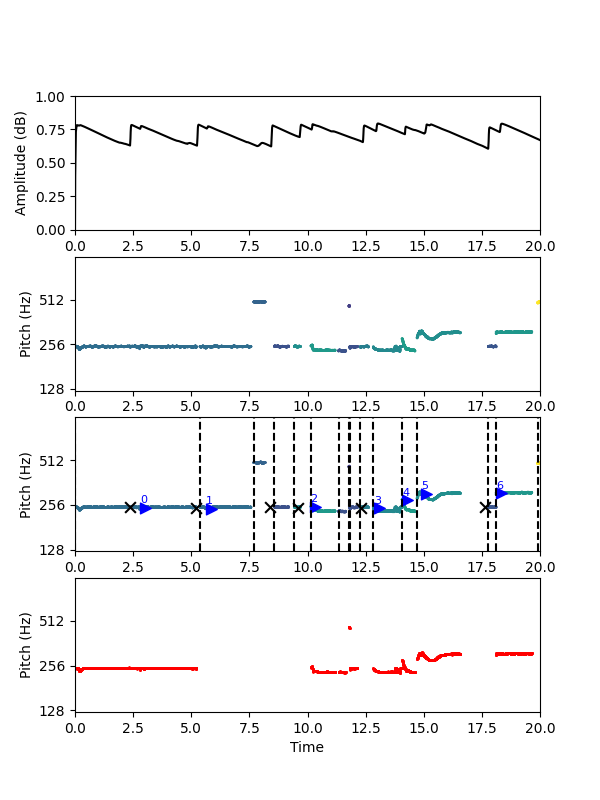
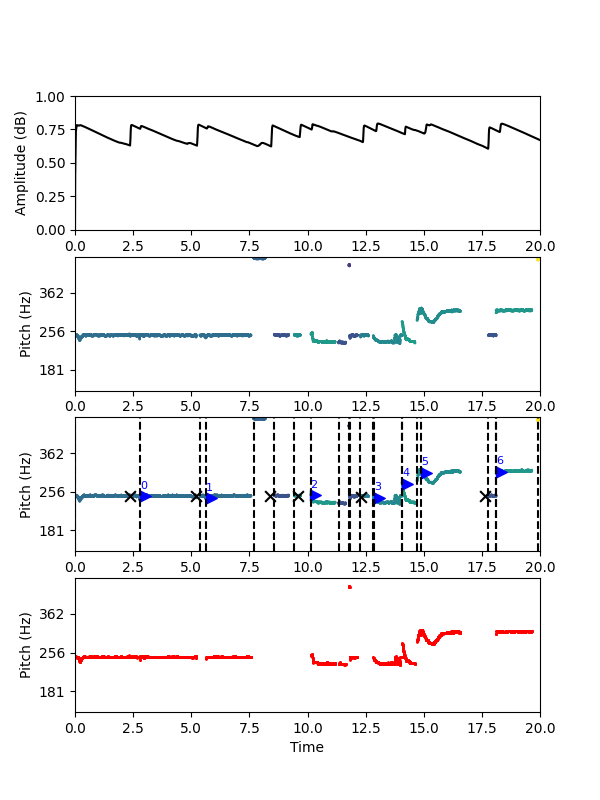
updating

diff --git a/python/auto_transcribe/melodic_contour.py b/python/auto_transcribe/melodic_contour.py
@@ -5,7 +5,10 @@ from matplotlib.markers import MarkerStyle
 import numpy as np
 from mir_eval.sonify import pitch_contour
 
-def get_idx_groups(log_pitch: np.ndarray, discontinuity_threshold: float = 0.2):
+min_freq = 150
+max_freq = 500
+
+def get_idx_groups(log_pitch: np.ndarray, pluck_idxs: list[int], discontinuity_threshold: float = 0.2):
     # segmentation of the pitch contour
     idx_groups = []
     current_group = []
@@ -27,7 +30,20 @@ def get_idx_groups(log_pitch: np.ndarray, discontinuity_threshold: float = 0.2):
     if len(current_group) > 0:
         idx_groups.append(current_group)
     
-    return idx_groups
+     # Further segment the groups based on pluck_idxs
+    final_idx_groups = []
+    for group in idx_groups:
+        new_group = []
+        for idx in group:
+            if idx in pluck_idxs:
+                if new_group:
+                    final_idx_groups.append(new_group)
+                    new_group = []
+            new_group.append(idx)
+        if new_group:
+            final_idx_groups.append(new_group)
+    
+    return final_idx_groups
 
 def find_nearest_non_nan(arr: np.ndarray, idx: int) -> float:
     # Look backwards
@@ -90,7 +106,7 @@ def make_just_contour_plot(ax_0, x_vals, log_pitch, log_fund, start, end, colors
     ax_0.scatter(x_vals, log_pitch, c=colors, s=1)
     ax_0.set_ylabel('Pitch (Hz)')
     # ax_0.set_title('Melodic Contour')
-    ax_0.set_ylim([log_fund - 1, log_fund + 2])
+    ax_0.set_ylim([np.log2(min_freq), np.log2(max_freq)])
     y_ticks = ax_0.get_yticks()
     labels = [str(int(2**y)) for y in y_ticks]
     ax_0.set_yticklabels(labels)
@@ -101,7 +117,7 @@ def make_annotated_contour_plot(ax, log_pitch, log_fund, start, end, colors,
     x_vals = np.linspace(start, end, len(log_pitch))
     ax.scatter(x_vals, log_pitch, c=colors, s=1)
     ax.set_ylabel('Pitch (Hz)')
-    ax.set_ylim([log_fund - 1, log_fund + 2])
+    ax.set_ylim([np.log2(min_freq), np.log2(max_freq)])
     y_ticks = ax.get_yticks()
     labels = [str(int(2**y)) for y in y_ticks]
     ax.set_yticklabels(labels)
@@ -138,7 +154,7 @@ def make_filtered_contour_plot(ax1, log_pitch, log_fund, start, end,
                                filtered_index_groups):
     x_vals = np.linspace(start, end, len(log_pitch))
     ax1.set_ylabel('Pitch (Hz)')
-    ax1.set_ylim([log_fund - 1, log_fund + 2])
+    ax1.set_ylim([np.log2(min_freq), np.log2(max_freq)])
     y_ticks = ax1.get_yticks()
     labels = [str(int(2**y)) for y in y_ticks]
     ax1.set_yticklabels(labels)
@@ -153,8 +169,8 @@ def get_contour(audio: np.ndarray, idx: int, pluck_onsets: np.ndarray,
     # compute the melodic contour
     log_fund = np.log2(fund)
     voicing_tolerance = 0.7
-    min_freq = 124
-    max_freq = 500
+    # min_freq = 100
+    # max_freq = 400
     eq_loud_audio = ess.EqualLoudness()(audio)
     frame_size = 2048
     ppm = ess.PredominantPitchMelodia(minFrequency = min_freq, 
@@ -182,7 +198,7 @@ def get_contour(audio: np.ndarray, idx: int, pluck_onsets: np.ndarray,
     normed_pluck_onsets = pluck_onsets / (end - start)
     pluck_onset_idxs = (normed_pluck_onsets * len(log_pitch)).astype(int)
     
-    idx_groups = get_idx_groups(log_pitch, 0.1)
+    idx_groups = get_idx_groups(log_pitch, pluck_onset_idxs, 0.1)
     threshold = 0.05
     
     oct_above_fund = log_fund + 1
@@ -229,6 +245,4 @@ def get_contour(audio: np.ndarray, idx: int, pluck_onsets: np.ndarray,
     plt.savefig(f'./python/auto_transcribe/melodic_contours/contour_{idx}.png')
     plt.close()
     save_contour_synth(idx, log_pitch, filtered_index_groups, start, end, audio)
-    if idx == 5:
-        breakpoint()
 

diff --git a/python/auto_transcribe/onsets.py b/python/auto_transcribe/onsets.py
@@ -48,14 +48,7 @@ fund = 249
 file_path = download_file(audio_id)
 
 dir = os.path.dirname(__file__)
-clips = [
-    { 'start': 0, 'end': 20 },
-    { 'start': 20, 'end': 40 },
-    { 'start': 40, 'end': 60 },
-    { 'start': 60, 'end': 80 },
-    { 'start': 80, 'end': 100 },
-    { 'start': 100, 'end': 120 },
-]
+clips = [{ 'start': i * 20, 'end': i * 20 + 20 } for i in range(20)]
 
 for i, clip in enumerate(clips):
     print(file_path)
